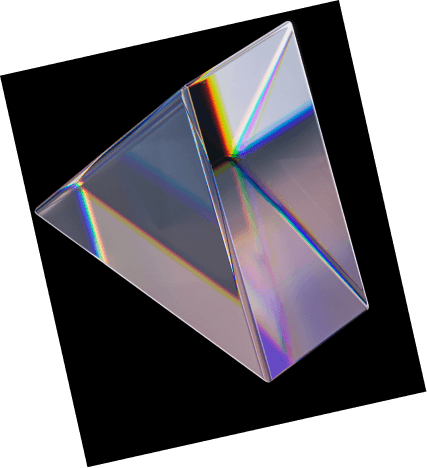
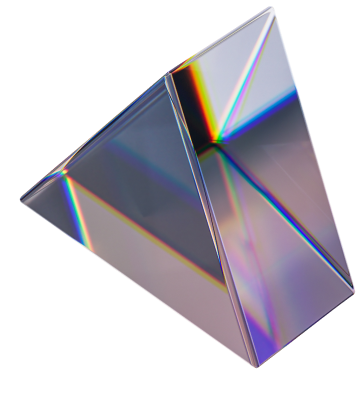
femake first-screen decor for anim and parallax

diff --git a/src/scss/home.scss b/src/scss/home.scss
@@ -1,47 +1,87 @@
 //====================первый экран======================
 //TODO анимация загрузки
 .first-screen {
-	&__decor {
+	position: relative;
+	overflow: hidden;
+	&__background {
+		position: absolute;
 		width: 100%;
 		height: 100%;
-		&::before,
-		&::after {
-			content: "";
-			position: absolute;
-			// width: 128px;
-			// height: 135px;
-			@include adaptiveValue("width", 128, 75);
-			@include adaptiveValue("height", 135, 78);
-			z-index: 3;
+		left: 0;
+		top: 0;
+		background-color: $primary-bg;
+
+		img {
+			width: 110%;
+			height: 110%;
+			object-fit: cover;
+			mix-blend-mode: screen;
+		}
+	}
+
+	&__container {
+		position: relative;
+	}
+
+	&__decor {
+		position: absolute;
+		width: 100%;
+		height: 100%;
+
+		&_top,
+		&_center,
+		&_bottom {
 			pointer-events: none;
 			mix-blend-mode: screen;
 			will-change: transform;
+			img {
+				width: 100%;
+			}
 		}
 
-		&::before {
-			background-image: url("@img/first-screen/glass-geometries-top.png");
-			background-repeat: no-repeat;
+		&_top {
+			position: absolute;
+			right: -200px;
+			top: -240px;
+			@include adaptiveValue("width", 380, 110);
+			@include adaptiveValue("right", -200, 80);
+			@include adaptiveValue("top", -240, -60);
+			opacity: 0.5;
+			filter: blur(4px);
+
+			@media (max-width: calc(#{$maxWidth}px)) {
+				right: 0;
+			}
+
+			@media (max-width: $burgerMenu) {
+				right: 70px;
+			}
+
+			@media (max-width: $mobile) {
+				filter: blur(2px);
+			}
+		}
+
+		&_center {
+			position: absolute;
+			@include adaptiveValue("width", 128, 75);
 			right: 33%;
 			top: 15%;
-			background-size: 100%;
-			transform: scale(0.5) rotateZ(180deg);
 			filter: blur(6px);
 			opacity: 0.5;
 
 			@media (max-width: $burgerMenu) {
-				@include adaptiveValue("left", 350, 10);
+				@include adaptiveValue("left", 350, -10);
 				@include adaptiveValue("top", 120, 100);
-				transform: scale(0.6) rotateZ(180deg);
 				filter: blur(3px);
 			}
 		}
 
-		&::after {
-			background-image: url("@img/first-screen/glass-geometries-bottom.png");
-			background-repeat: no-repeat;
+		&_bottom {
+			position: absolute;
+			@include adaptiveValue("width", 158, 85);
 			right: -8%;
 			bottom: 14%;
-			background-size: contain;
 			opacity: 1;
 			@media (max-width: 1600px) {
 				right: 1%;
@@ -49,17 +89,66 @@
 
 			@media (max-width: 709px) {
 				@include adaptiveValue("top", 540, 350, 709, 360, 1);
-				@include adaptiveValue("right", 250, -10);
+				@include adaptiveValue("right", 250, 20);
 			}
 			@media (min-width: 710px) and (max-width: $burgerMenu) {
 				@include adaptiveValue("right", 280, 70);
 				@include adaptiveValue("top", 590, 450);
 			}
 		}
-	}
 
-	&__container {
-		position: relative;
+		// &::before,
+		// &::after {
+		// 	content: "";
+		// 	position: absolute;
+		// 	// width: 128px;
+		// 	// height: 135px;
+		// 	@include adaptiveValue("width", 128, 75);
+		// 	@include adaptiveValue("height", 135, 78);
+		// 	z-index: 3;
+		// 	pointer-events: none;
+		// 	mix-blend-mode: screen;
+		// 	will-change: transform;
+		// }
+
+		// &::before {
+		// 	background-image: url("@img/first-screen/glass-geometries-top.png");
+		// 	background-repeat: no-repeat;
+		// 	right: 33%;
+		// 	top: 15%;
+		// 	background-size: 100%;
+		// 	transform: scale(0.5) rotateZ(180deg);
+		// 	filter: blur(6px);
+		// 	opacity: 0.5;
+
+		// 	@media (max-width: $burgerMenu) {
+		// 		@include adaptiveValue("left", 350, 10);
+		// 		@include adaptiveValue("top", 120, 100);
+		// 		transform: scale(0.6) rotateZ(180deg);
+		// 		filter: blur(3px);
+		// 	}
+		// }
+
+		// &::after {
+		// 	background-image: url("@img/first-screen/glass-geometries-bottom.png");
+		// 	background-repeat: no-repeat;
+		// 	right: -8%;
+		// 	bottom: 14%;
+		// 	background-size: contain;
+		// 	opacity: 1;
+		// 	@media (max-width: 1600px) {
+		// 		right: 1%;
+		// 	}
+
+		// 	@media (max-width: 709px) {
+		// 		@include adaptiveValue("top", 540, 350, 709, 360, 1);
+		// 		@include adaptiveValue("right", 250, -10);
+		// 	}
+		// 	@media (min-width: 710px) and (max-width: $burgerMenu) {
+		// 		@include adaptiveValue("right", 280, 70);
+		// 		@include adaptiveValue("top", 590, 450);
+		// 	}
+		// }
 	}
 
 	&__body {

diff --git a/src/index.html b/src/index.html
@@ -6,19 +6,31 @@
 			@@include('html/_header.htm',{})
 			<main class="page">
 				<section class="page__first-screen first-screen">
+					<div class="first-screen__background">
+						<img src="@img/first-screen/stars-background_low-contrast.webp" alt="звездное небо" />
+					</div>
 					<div class="first-screen__container">
 						<div class="first-screen__decor">
-							<div class="first-screen__body">
-								<div class="first-screen__content">
-									<h1 class="first-screen__title">Эксперты в сфере digital-рекламы</h1>
-									<p class="first-screen__sub-title">
-										Знаем всё про интернет-маркетинг
-										<br />
-										и используем инструменты в ваших интересах
-									</p>
-								</div>
-								<div class="first-screen__image"><img src="@img/first-screen/glass-geometries-main.png" alt="" /></div>
+							<div class="first-screen__decor_top">
+								<img src="@img/first-screen/glass-geometries-top.png" alt="стеклянный треугольник" />
 							</div>
+							<div class="first-screen__decor_center">
+								<img src="@img/first-screen/glass-geometries-center.png" alt="стеклянный треугольник" />
+							</div>
+							<div class="first-screen__decor_bottom">
+								<img src="@img/first-screen/glass-geometries-bottom.png" alt="стеклянный треугольник" />
+							</div>
+						</div>
+						<div class="first-screen__body">
+							<div class="first-screen__content">
+								<h1 class="first-screen__title">Эксперты в сфере digital-рекламы</h1>
+								<p class="first-screen__sub-title">
+									Знаем всё про интернет-маркетинг
+									<br />
+									и используем инструменты в ваших интересах
+								</p>
+							</div>
+							<div class="first-screen__image"><img src="@img/first-screen/glass-geometries-main.png" alt="" /></div>
 						</div>
 					</div>
 				</section>

diff --git a/src/scss/common.scss b/src/scss/common.scss
@@ -16,7 +16,6 @@
 
 //====================фоны блоков======================
 .page {
-	&__first-screen,
 	&__how,
 	&__main-form {
 		position: relative;
